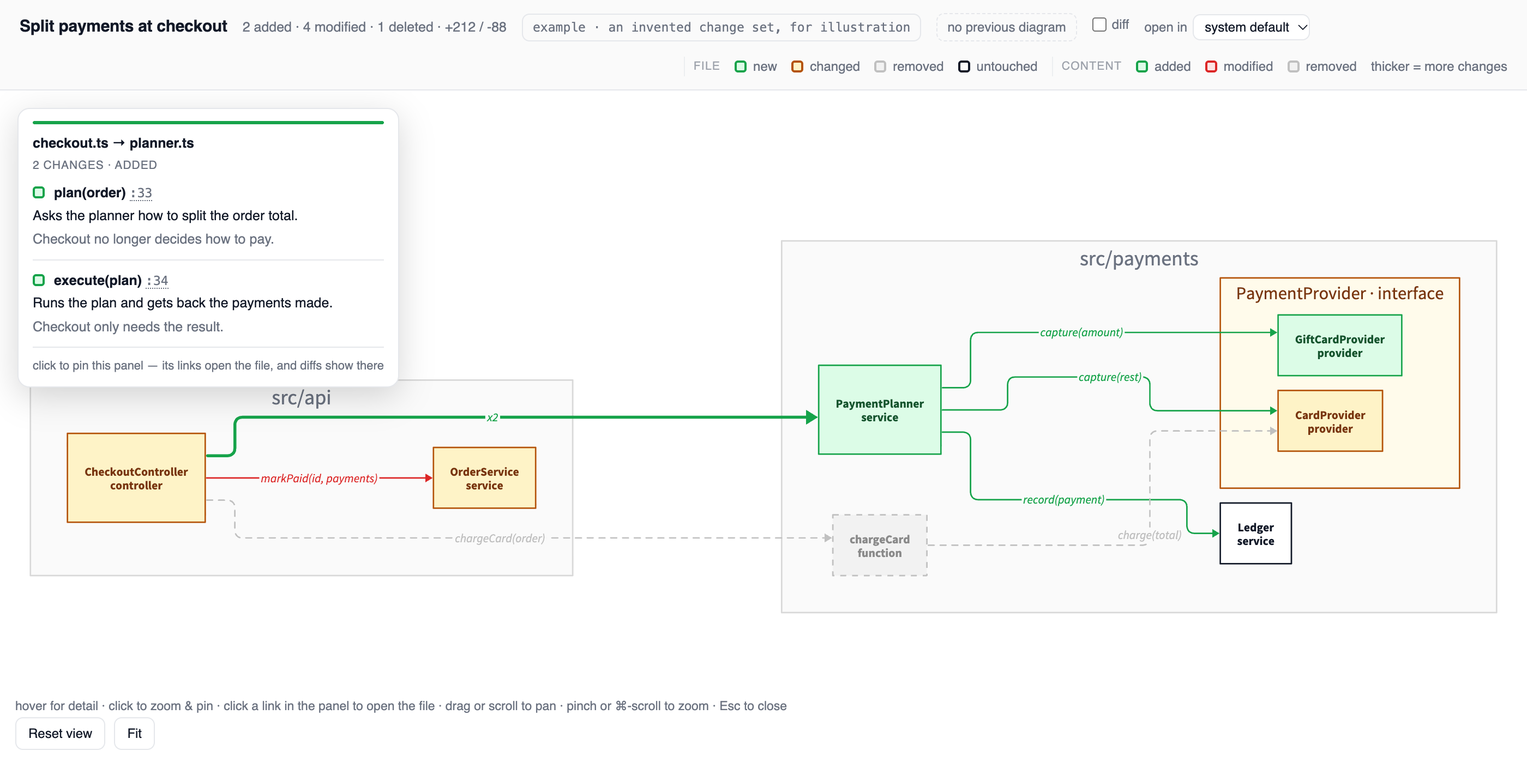
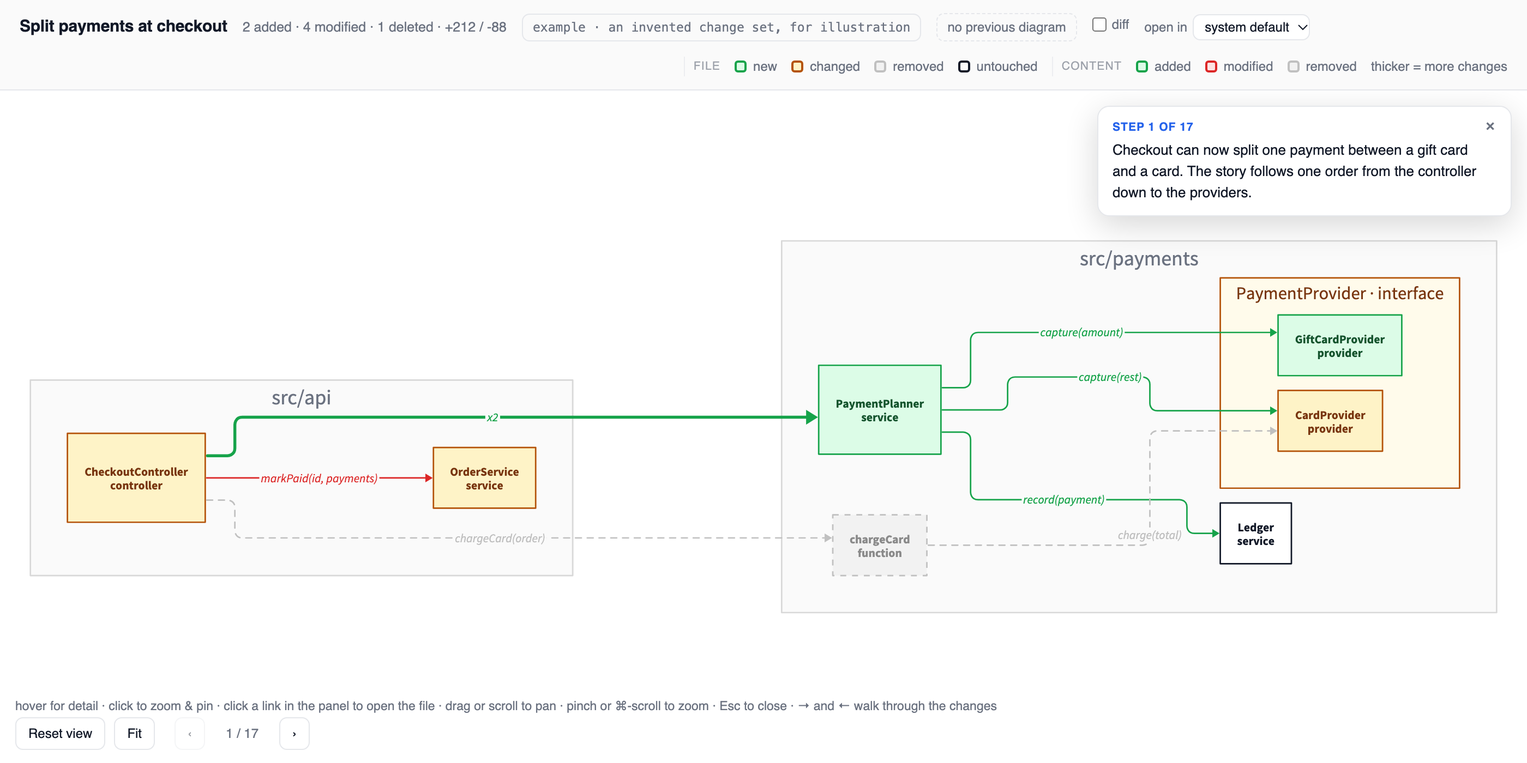
Show story mode in the example
The example page is now built with story mode. It has a tour of 17
steps that follows one order from the checkout controller to the
payment providers, and ends with the code that the planner replaced.
The screenshot shows the first step of the tour.

Claude-Session: https://claude.ai/code/session_01TgY3Y1R2iVzdEZJ4mQ3Ke6

Changed region(s): [[0.0, 0.1536, 0.2486, 0.5221], [0.7146, 0.1536, 0.9632, 0.3071], [0.5282, 0.9214, 0.6525, 0.9521]]

diff --git a/index.html b/index.html
@@ -75,6 +75,10 @@
   #pin .card, #pin.card{max-width:none}
   .card .pinhint{margin-top:9px;padding-top:8px;border-top:1px solid var(--line);
     font-size:11px;color:var(--muted)}
+  .card .step{margin-bottom:10px;padding:0 18px 9px 0;border-bottom:1px solid var(--line)}
+  .card .step:last-child{margin-bottom:0;padding-bottom:0;border-bottom:0}
+  .card .step .n{font-size:10.5px;font-weight:650;color:var(--link);text-transform:uppercase;letter-spacing:.05em}
+  .card .step .note{margin-top:3px;font-size:13px}
 
   #hover{position:absolute;pointer-events:none;opacity:0;transform:translateY(4px);
     transition:opacity .12s,transform .12s;z-index:5}
@@ -90,6 +94,11 @@
   button.b{font:inherit;font-size:12px;padding:5px 11px;border-radius:7px;cursor:pointer;
     border:1px solid var(--line);background:var(--card-bg);color:var(--fg)}
   button.b:hover{border-color:var(--muted)}
+  button.b:disabled{opacity:.4;cursor:default}
+  button.b:disabled:hover{border-color:var(--line)}
+  #tour{display:flex;align-items:center;gap:6px;margin-left:10px}
+  #tour[hidden]{display:none}
+  #tourpos{font-size:12px;color:var(--muted);min-width:56px;text-align:center;font-variant-numeric:tabular-nums}
   .hint{position:absolute;left:14px;bottom:44px;font-size:11.5px;color:var(--muted);z-index:4}
 </style>
 </head>
@@ -240,12 +249,18 @@
   <footer>
     <button class="b" id="reset">Reset view</button>
     <button class="b" id="fit">Fit</button>
+    <div id="tour" hidden>
+      <button class="b" id="prev" title="previous step (←)">‹</button>
+      <span id="tourpos"></span>
+      <button class="b" id="next" title="next step (→)">›</button>
+    </div>
   </footer>
-  <div class="hint">hover for detail · click to zoom &amp; pin · click a link in the panel to open the file · drag or scroll to pan · pinch or ⌘-scroll to zoom · Esc to close</div>
+  <div class="hint">hover for detail · click to zoom &amp; pin · click a link in the panel to open the file · drag or scroll to pan · pinch or ⌘-scroll to zoom · Esc to close<span id="tourhint" hidden> · → and ← walk through the changes</span></div>
 </div>
 
 <script>
-const DATA   = {"KGFwaS5uMCAtJmd0OyBwYXltZW50cy5uMilbMF0=": {"kind": "edge", "status": "added", "title": "checkout.ts  \u2192  planner.ts", "sub": "2 changes \u00b7 added", "path": "src/api/checkout.ts", "clickable": false, "changes": [{"call": "plan(order)", "line": 33, "path": "src/api/checkout.ts", "what": "Asks the planner how to split the order total.", "why": "Checkout no longer decides how to pay."}, {"call": "execute(plan)", "line": 34, "path": "src/api/checkout.ts", "what": "Runs the plan and gets back the payments made.", "why": "Checkout only needs the result."}]}, "KGFwaS5uMCAtJmd0OyBwYXltZW50cy5uNilbMF0=": {"kind": "edge", "status": "deleted", "title": "checkout.ts  \u2192  legacy-charge.ts", "sub": "1 change \u00b7 deleted", "path": "src/api/checkout.ts", "clickable": false, "changes": [{"call": "chargeCard(order)", "line": 33, "path": "src/api/checkout.ts", "what": "No longer charges the card directly.", "why": "Replaced by the planner."}]}, "YXBpLihuMCAtJmd0OyBuMSlbMF0=": {"kind": "edge", "status": "modified", "title": "checkout.ts  \u2192  orders.ts", "sub": "1 change \u00b7 modified", "path": "src/api/checkout.ts", "clickable": false, "changes": [{"call": "markPaid(id, payments)", "line": 36, "path": "src/api/checkout.ts", "what": "Passes the list of payments instead of one charge id.", "why": "Matches the new markPaid signature."}]}, "cGF5bWVudHMuKG4yIC0mZ3Q7IG4zLm41KVswXQ==": {"kind": "edge", "status": "added", "title": "planner.ts  \u2192  giftcard.ts", "sub": "1 change \u00b7 added", "path": "src/payments/planner.ts", "clickable": false, "changes": [{"call": "capture(amount)", "line": 24, "path": "src/payments/planner.ts", "what": "Takes the gift card part first.", "why": "Gift card balance is spent before the card."}]}, "cGF5bWVudHMuKG4yIC0mZ3Q7IG4zLm40KVswXQ==": {"kind": "edge", "status": "added", "title": "planner.ts  \u2192  card.ts", "sub": "1 change \u00b7 added", "path": "src/payments/planner.ts", "clickable": false, "changes": [{"call": "capture(rest)", "line": 24, "path": "src/payments/planner.ts", "what": "Puts what is left on the card.", "why": "The card covers the rest of the total."}]}, "cGF5bWVudHMuKG4yIC0mZ3Q7IG43KVswXQ==": {"kind": "edge", "status": "added", "title": "planner.ts  \u2192  ledger.ts", "sub": "1 change \u00b7 added", "path": "src/payments/planner.ts", "clickable": false, "changes": [{"call": "record(payment)", "line": 25, "path": "src/payments/planner.ts", "what": "Writes each captured payment to the ledger.", "why": "Finance reconciles each payment separately."}]}, "cGF5bWVudHMuKG42IC0mZ3Q7IG4zLm40KVswXQ==": {"kind": "edge", "status": "deleted", "title": "legacy-charge.ts  \u2192  card.ts", "sub": "1 change \u00b7 deleted", "path": "src/payments/legacy-charge.ts", "clickable": false, "changes": [{"call": "charge(total)", "path": "src/payments/legacy-charge.ts", "what": "The old one-shot card charge.", "why": "Removed with chargeCard."}]}, "YXBpLm4w": {"kind": "node", "status": "modified", "title": "src/api/checkout.ts", "sub": "controller \u00b7 modified", "path": "src/api/checkout.ts", "clickable": false, "changes": [{"line": 41, "status": "added", "what": "A declined payment now returns 402 with the step that failed.", "why": "With several payments per order, the client needs to know which one to retry.", "diff": "@@ -38,4 +38,9 @@ export class CheckoutController {\n   } catch (err) {\n-    return res.status(500).end();\n+    if (err instanceof PaymentDeclined) {\n+      return res.status(402).json({ step: err.step, reason: err.reason });\n+    }\n+    return res.status(500).end();\n   }"}]}, "YXBpLm4x": {"kind": "node", "status": "modified", "title": "src/api/orders.ts", "sub": "service \u00b7 modified", "path": "src/api/orders.ts", "clickable": false, "changes": [{"line": 27, "status": "modified", "what": "markPaid takes the list of payments instead of one card charge id.", "why": "An order can now be paid by a gift card and a card together.", "diff": "@@ -27,3 +27,3 @@ export class OrderService {\n-  markPaid(orderId: string, chargeId: string) {\n+  markPaid(orderId: string, payments: Payment[]) {\n     const order = this.repo.get(orderId);"}]}, "cGF5bWVudHMubjI=": {"kind": "node", "status": "added", "title": "src/payments/planner.ts", "sub": "service \u00b7 added", "path": "src/payments/planner.ts", "clickable": false, "changes": [{"line": 12, "what": "plan() spends gift card balance first, then puts the rest on the card.", "why": "Customers expect the gift card to be used before they are charged.", "diff": "@@ new file, lines 12-18 @@\n+  plan(order: Order): Plan {\n+    const gift = Math.min(order.giftCardBalance, order.total);\n+    return [\n+      gift > 0 && { provider: \"giftcard\", amount: gift },\n+      { provider: \"card\", amount: order.total - gift },\n+    ].filter(Boolean);\n+  }"}, {"line": 21, "what": "execute() captures each step in order and refunds earlier steps if one fails.", "why": "A half-paid order must never be left behind.", "diff": "@@ new file, lines 21-27 @@\n+  async execute(plan: Plan): Promise<Payment[]> {\n+    const done: Payment[] = [];\n+    for (const step of plan) {\n+      try { done.push(await this.providers[step.provider].capture(step.amount)); }\n+      catch (err) { await this.refundAll(done); throw new PaymentDeclined(step, err); }\n+    }\n+    return done;"}]}, "cGF5bWVudHMubjM=": {"kind": "node", "status": "modified", "title": "src/payments/provider.ts", "sub": "interface \u00b7 modified", "path": "src/payments/provider.ts", "clickable": false, "changes": [{"line": 4, "status": "modified", "what": "charge(total) becomes capture(amount).", "why": "A provider now pays for part of an order, not always the whole of it.", "diff": "@@ -3,3 +3,3 @@ export interface PaymentProvider {\n   readonly name: string;\n-  charge(total: Money): Promise<string>;\n+  capture(amount: Money): Promise<Payment>;"}]}, "cGF5bWVudHMubjMubjQ=": {"kind": "node", "status": "modified", "title": "src/payments/card.ts", "sub": "provider \u00b7 modified", "path": "src/payments/card.ts", "clickable": false, "changes": [{"line": 18, "status": "modified", "what": "Implements capture(amount) for a partial amount.", "why": "Follows the new PaymentProvider contract.", "diff": "@@ -18,4 +18,4 @@ export class CardProvider implements PaymentProvider {\n-  async charge(total: Money) {\n-    return (await this.gateway.charge(this.token, total)).id;\n+  async capture(amount: Money) {\n+    return toPayment(await this.gateway.charge(this.token, amount));"}]}, "cGF5bWVudHMubjMubjU=": {"kind": "node", "status": "added", "title": "src/payments/giftcard.ts", "sub": "provider \u00b7 added", "path": "src/payments/giftcard.ts", "clickable": false, "changes": [{"line": 9, "what": "Takes the amount off the gift card balance.", "why": "Gift cards are the new way to pay.", "diff": "@@ new file, lines 9-13 @@\n+  async capture(amount: Money) {\n+    const card = await this.cards.lock(this.code);\n+    if (card.balance < amount) throw new InsufficientBalance(card.balance);\n+    return toPayment(await this.cards.debit(card, amount));\n+  }"}]}, "cGF5bWVudHMubjY=": {"kind": "node", "status": "deleted", "title": "src/payments/legacy-charge.ts", "sub": "function \u00b7 deleted", "path": "src/payments/legacy-charge.ts", "clickable": false, "changes": [{"what": "Removed.", "why": "PaymentPlanner replaces it."}]}, "cGF5bWVudHMubjc=": {"kind": "node", "status": "unchanged", "title": "src/payments/ledger.ts", "sub": "service \u00b7 unchanged", "path": "src/payments/ledger.ts", "clickable": false, "changes": []}};
+const DATA   = {"KGFwaS5uMCAtJmd0OyBwYXltZW50cy5uMilbMF0=": {"kind": "edge", "status": "added", "title": "checkout.ts  \u2192  planner.ts", "sub": "2 changes \u00b7 added", "path": "src/api/checkout.ts", "clickable": false, "changes": [{"call": "plan(order)", "line": 33, "path": "src/api/checkout.ts", "what": "Asks the planner how to split the order total.", "why": "Checkout no longer decides how to pay."}, {"call": "execute(plan)", "line": 34, "path": "src/api/checkout.ts", "what": "Runs the plan and gets back the payments made.", "why": "Checkout only needs the result."}]}, "KGFwaS5uMCAtJmd0OyBwYXltZW50cy5uNilbMF0=": {"kind": "edge", "status": "deleted", "title": "checkout.ts  \u2192  legacy-charge.ts", "sub": "1 change \u00b7 removed", "path": "src/api/checkout.ts", "clickable": false, "changes": [{"call": "chargeCard(order)", "line": 33, "path": "src/api/checkout.ts", "what": "No longer charges the card directly.", "why": "Replaced by the planner."}]}, "YXBpLihuMCAtJmd0OyBuMSlbMF0=": {"kind": "edge", "status": "modified", "title": "checkout.ts  \u2192  orders.ts", "sub": "1 change \u00b7 modified", "path": "src/api/checkout.ts", "clickable": false, "changes": [{"call": "markPaid(id, payments)", "line": 36, "path": "src/api/checkout.ts", "what": "Passes the list of payments instead of one charge id.", "why": "Matches the new markPaid signature."}]}, "cGF5bWVudHMuKG4yIC0mZ3Q7IG4zLm41KVswXQ==": {"kind": "edge", "status": "added", "title": "planner.ts  \u2192  giftcard.ts", "sub": "1 change \u00b7 added", "path": "src/payments/planner.ts", "clickable": false, "changes": [{"call": "capture(amount)", "line": 24, "path": "src/payments/planner.ts", "what": "Takes the gift card part first.", "why": "Gift card balance is spent before the card."}]}, "cGF5bWVudHMuKG4yIC0mZ3Q7IG4zLm40KVswXQ==": {"kind": "edge", "status": "added", "title": "planner.ts  \u2192  card.ts", "sub": "1 change \u00b7 added", "path": "src/payments/planner.ts", "clickable": false, "changes": [{"call": "capture(rest)", "line": 24, "path": "src/payments/planner.ts", "what": "Puts what is left on the card.", "why": "The card covers the rest of the total."}]}, "cGF5bWVudHMuKG4yIC0mZ3Q7IG43KVswXQ==": {"kind": "edge", "status": "added", "title": "planner.ts  \u2192  ledger.ts", "sub": "1 change \u00b7 added", "path": "src/payments/planner.ts", "clickable": false, "changes": [{"call": "record(payment)", "line": 25, "path": "src/payments/planner.ts", "what": "Writes each captured payment to the ledger.", "why": "Finance reconciles each payment separately."}]}, "cGF5bWVudHMuKG42IC0mZ3Q7IG4zLm40KVswXQ==": {"kind": "edge", "status": "deleted", "title": "legacy-charge.ts  \u2192  card.ts", "sub": "1 change \u00b7 removed", "path": "src/payments/legacy-charge.ts", "clickable": false, "changes": [{"call": "charge(total)", "path": "src/payments/legacy-charge.ts", "what": "The old one-shot card charge.", "why": "Removed with chargeCard."}]}, "YXBpLm4w": {"kind": "node", "status": "modified", "title": "src/api/checkout.ts", "sub": "controller \u00b7 changed", "path": "src/api/checkout.ts", "clickable": false, "changes": [{"line": 41, "status": "added", "what": "A declined payment now returns 402 with the step that failed.", "why": "With several payments per order, the client needs to know which one to retry.", "diff": "@@ -38,4 +38,9 @@ export class CheckoutController {\n   } catch (err) {\n-    return res.status(500).end();\n+    if (err instanceof PaymentDeclined) {\n+      return res.status(402).json({ step: err.step, reason: err.reason });\n+    }\n+    return res.status(500).end();\n   }"}]}, "YXBpLm4x": {"kind": "node", "status": "modified", "title": "src/api/orders.ts", "sub": "service \u00b7 changed", "path": "src/api/orders.ts", "clickable": false, "changes": [{"line": 27, "status": "modified", "what": "markPaid takes the list of payments instead of one card charge id.", "why": "An order can now be paid by a gift card and a card together.", "diff": "@@ -27,3 +27,3 @@ export class OrderService {\n-  markPaid(orderId: string, chargeId: string) {\n+  markPaid(orderId: string, payments: Payment[]) {\n     const order = this.repo.get(orderId);"}]}, "cGF5bWVudHMubjI=": {"kind": "node", "status": "added", "title": "src/payments/planner.ts", "sub": "service \u00b7 new", "path": "src/payments/planner.ts", "clickable": false, "changes": [{"line": 12, "what": "plan() spends gift card balance first, then puts the rest on the card.", "why": "Customers expect the gift card to be used before they are charged.", "diff": "@@ new file, lines 12-18 @@\n+  plan(order: Order): Plan {\n+    const gift = Math.min(order.giftCardBalance, order.total);\n+    return [\n+      gift > 0 && { provider: \"giftcard\", amount: gift },\n+      { provider: \"card\", amount: order.total - gift },\n+    ].filter(Boolean);\n+  }"}, {"line": 21, "what": "execute() captures each step in order and refunds earlier steps if one fails.", "why": "A half-paid order must never be left behind.", "diff": "@@ new file, lines 21-27 @@\n+  async execute(plan: Plan): Promise<Payment[]> {\n+    const done: Payment[] = [];\n+    for (const step of plan) {\n+      try { done.push(await this.providers[step.provider].capture(step.amount)); }\n+      catch (err) { await this.refundAll(done); throw new PaymentDeclined(step, err); }\n+    }\n+    return done;"}]}, "cGF5bWVudHMubjM=": {"kind": "node", "status": "modified", "title": "src/payments/provider.ts", "sub": "interface \u00b7 changed", "path": "src/payments/provider.ts", "clickable": false, "changes": [{"line": 4, "status": "modified", "what": "charge(total) becomes capture(amount).", "why": "A provider now pays for part of an order, not always the whole of it.", "diff": "@@ -3,3 +3,3 @@ export interface PaymentProvider {\n   readonly name: string;\n-  charge(total: Money): Promise<string>;\n+  capture(amount: Money): Promise<Payment>;"}]}, "cGF5bWVudHMubjMubjQ=": {"kind": "node", "status": "modified", "title": "src/payments/card.ts", "sub": "provider \u00b7 changed", "path": "src/payments/card.ts", "clickable": false, "changes": [{"line": 18, "status": "modified", "what": "Implements capture(amount) for a partial amount.", "why": "Follows the new PaymentProvider contract.", "diff": "@@ -18,4 +18,4 @@ export class CardProvider implements PaymentProvider {\n-  async charge(total: Money) {\n-    return (await this.gateway.charge(this.token, total)).id;\n+  async capture(amount: Money) {\n+    return toPayment(await this.gateway.charge(this.token, amount));"}]}, "cGF5bWVudHMubjMubjU=": {"kind": "node", "status": "added", "title": "src/payments/giftcard.ts", "sub": "provider \u00b7 new", "path": "src/payments/giftcard.ts", "clickable": false, "changes": [{"line": 9, "what": "Takes the amount off the gift card balance.", "why": "Gift cards are the new way to pay.", "diff": "@@ new file, lines 9-13 @@\n+  async capture(amount: Money) {\n+    const card = await this.cards.lock(this.code);\n+    if (card.balance < amount) throw new InsufficientBalance(card.balance);\n+    return toPayment(await this.cards.debit(card, amount));\n+  }"}]}, "cGF5bWVudHMubjY=": {"kind": "node", "status": "deleted", "title": "src/payments/legacy-charge.ts", "sub": "function \u00b7 removed", "path": "src/payments/legacy-charge.ts", "clickable": false, "changes": [{"what": "Removed.", "why": "PaymentPlanner replaces it."}]}, "cGF5bWVudHMubjc=": {"kind": "node", "status": "unchanged", "title": "src/payments/ledger.ts", "sub": "service \u00b7 untouched", "path": "src/payments/ledger.ts", "clickable": false, "changes": []}};
+const TOUR   = [{"key": null, "show": null, "note": "Checkout can now split one payment between a gift card and a card. The story follows one order from the controller down to the providers."}, {"key": "cGF5bWVudHMubjM=", "show": null, "note": "Start with the contract. Every provider and the new planner are built on this rename."}, {"key": "KGFwaS5uMCAtJmd0OyBwYXltZW50cy5uMilbMF0=", "show": null, "note": "This is where an order enters the new code: checkout hands the whole decision to the planner."}, {"key": "cGF5bWVudHMubjI=", "show": [0], "note": "First half of the planner: how one total becomes a list of payments."}, {"key": "cGF5bWVudHMubjI=", "show": [1], "note": "Second half: how the plan runs, and what happens when one step fails."}, {"key": "cGF5bWVudHMuKG4yIC0mZ3Q7IG4zLm41KVswXQ==", "show": null, "note": "The gift card is charged first."}, {"key": "cGF5bWVudHMubjMubjU=", "show": null, "note": "The new provider that receives that call."}, {"key": "cGF5bWVudHMuKG4yIC0mZ3Q7IG4zLm40KVswXQ==", "show": null, "note": "Then the card covers the rest."}, {"key": "cGF5bWVudHMubjMubjQ=", "show": null, "note": "The existing card provider, changed to accept a part of the total."}, {"key": "cGF5bWVudHMuKG4yIC0mZ3Q7IG43KVswXQ==", "show": null, "note": "Each captured payment is recorded. The ledger itself did not change."}, {"key": "YXBpLm4w", "show": null, "note": "Back in checkout: a failed step now reaches the client."}, {"key": "YXBpLihuMCAtJmd0OyBuMSlbMF0=", "show": null, "note": "Checkout closes the order with the payments the planner returned."}, {"key": "YXBpLm4x", "show": null, "note": "The signature on the other side of that call."}, {"key": null, "show": null, "note": "Last, what the planner replaced."}, {"key": "KGFwaS5uMCAtJmd0OyBwYXltZW50cy5uNilbMF0=", "show": null, "note": "The direct card charge is gone from checkout."}, {"key": "cGF5bWVudHMubjY=", "show": null, "note": "So the old function goes too."}, {"key": "cGF5bWVudHMuKG42IC0mZ3Q7IG4zLm40KVswXQ==", "show": null, "note": "And with it the last caller of the old charge(total)."}];
 const ROOT   = "";
 let EDITOR = "system" || "system";
 try { EDITOR = localStorage.getItem("superreview.editor") || EDITOR; } catch (e) {}
@@ -388,12 +403,23 @@ function centreOn(bb) {
 const frameBox = bb => userZoomed ? centreOn(bb) : zoomToBBox(bb);
 
 /* ---------- card rendering ---------- */
-function renderCard(d, live) {
+// The top of a tour step's card: where the reader is, and the author's note on
+// why this step comes now.
+const stepHead = (step, more = "") =>
+  `<div class="step"><div class="n">step ${step.n} of ${TOUR.length}${more}</div>` +
+  (step.note ? `<div class="note">${esc(step.note)}</div>` : "") + `</div>`;
+
+function renderCard(d, live, step) {
   // `live` = the pinned panel, which stays put and can hold real links; the
   // hover card follows the cursor, so its links would be unreachable.
-  const url0 = live && d.clickable ? fileURL(d.path, (d.changes[0] || {}).line) : null;
+  // `step` = a tour step, which leads with its note and shows only its changes.
+  const all = d.changes || [];
+  const list = step && step.show ? step.show.map(i => all[i]) : all;
+  const more = list.length < all.length
+    ? ` · ${list.length} of ${all.length} changes ${d.kind === "node" ? "in this file" : "on this arrow"}` : "";
+  const url0 = live && d.clickable ? fileURL(d.path, (list[0] || {}).line) : null;
   const head = url0 ? `<a class="t" href="${url0}">${esc(d.title)}</a>` : `<div class="t">${esc(d.title)}</div>`;
-  const blocks = (d.changes || []).map(c => {
+  const blocks = list.map(c => {
     const u = live && d.clickable ? fileURL(c.path || d.path, c.line) : null;
     const st = c.status || d.status;
     const head2 = [swatch(st),
@@ -406,7 +432,7 @@ function renderCard(d, live) {
       ${live && SHOWDIFF ? hunk(c.diff) : ""}</div>`;
   }).join("");
   const bar = (d.kind === "node" ? FILE : CHANGE)[d.status] || "var(--muted)";
-  return `<div class="bar" style="background:${bar}"></div>
+  return `${step ? stepHead(step, more) : ""}<div class="bar" style="background:${bar}"></div>
           ${head}<div class="s">${esc(d.sub || "")}</div>${blocks}
           ${live ? "" : '<div class="pinhint">click to pin this panel — its links open the file, and diffs show there</div>'}`;
 }
@@ -414,7 +440,7 @@ const esc = s => String(s == null ? "" : s)
   .replace(/&/g,"&amp;").replace(/</g,"&lt;").replace(/>/g,"&gt;");
 
 /* ---------- bind every d2 group whose base64 class is in DATA ---------- */
-let pinned = null, pinnedBox = null;
+let pinned = null, pinnedBox = null, pinnedStep = null;
 const targets = [];
 svg.querySelectorAll("g[class]").forEach(g => {
   for (const c of g.getAttribute("class").split(/\s+/)) {
@@ -426,6 +452,20 @@ function moveHover(ev) {
   const r = stage.getBoundingClientRect();
   hover.style.left = Math.min(ev.clientX - r.left + 16, r.width  - hover.offsetWidth  - 10) + "px";
   hover.style.top  = Math.min(ev.clientY - r.top  + 16, r.height - hover.offsetHeight - 10) + "px";
+}
+
+// Pin an element's card, dim everything else and frame it. A click and a tour
+// step both come here; only the step passes itself, to lead the card.
+function pinTarget(g, step = null) {
+  const d = DATA[g.dataset.key];
+  targets.forEach(o => o.classList.toggle("dimmed", o !== g));
+  pinned = d; pinnedStep = step; pinnedBox = boxOf(g);
+  pin.classList.toggle("wide", SHOWDIFF);
+  pin.querySelector(".body").innerHTML = renderCard(d, true, step);  // pinned copy has live links
+  pin.scrollTop = 0;
+  pin.classList.add("on");
+  hover.classList.remove("on");
+  frameBox(pinnedBox);                               // after the panel is up, so its width is known
 }
 
 targets.forEach(g => {
@@ -440,13 +480,7 @@ targets.forEach(g => {
       const u = fileURL(d.path, (d.changes[0] || {}).line);
       if (u) { location.href = u; return; }
     }
-    targets.forEach(o => o.classList.toggle("dimmed", o !== g));
-    pinned = d; pinnedBox = boxOf(g);
-    pin.classList.toggle("wide", SHOWDIFF);
-    pin.querySelector(".body").innerHTML = renderCard(d, true);  // pinned copy has live links
-    pin.classList.add("on");
-    hover.classList.remove("on");
-    frameBox(pinnedBox);                             // after the panel is up, so its width is known
+    pinTarget(g);
   });
 });
 
@@ -506,7 +540,7 @@ stage.addEventListener("gesturechange", e => {
 // closing the panel (empty-space click, ×, Esc) leaves the view where it is.
 function unpin() {
   targets.forEach(o => o.classList.remove("dimmed"));
-  pinned = null;
+  pinned = null; pinnedStep = null;
   pin.classList.remove("on"); hover.classList.remove("on");
   if (!userZoomed) animateTo(HOME.slice());
 }
@@ -531,9 +565,9 @@ diffBox.addEventListener("click", e => e.stopPropagation());
 diffBox.addEventListener("change", () => {
   SHOWDIFF = diffBox.checked;
   try { localStorage.setItem("superreview.diff", SHOWDIFF ? "1" : "0"); } catch (e) {}
-  pin.classList.toggle("wide", SHOWDIFF);
+  pin.classList.toggle("wide", SHOWDIFF && !!pinned);  // a note-only step has no diff to widen for
   if (pinned) {
-    pin.querySelector(".body").innerHTML = renderCard(pinned, true);
+    pin.querySelector(".body").innerHTML = renderCard(pinned, true, pinnedStep);
     frameBox(pinnedBox);                             // the panel changed width
   }
 });
@@ -544,10 +578,53 @@ picker.addEventListener("click", e => e.stopPropagation());
 picker.addEventListener("change", () => {
   EDITOR = picker.value;
   try { localStorage.setItem("superreview.editor", EDITOR); } catch (e) {}
-  if (pinned) pin.querySelector(".body").innerHTML = renderCard(pinned, true);  // relink
+  if (pinned) pin.querySelector(".body").innerHTML = renderCard(pinned, true, pinnedStep);  // relink
 });
 
-addEventListener("keydown", e => { if (e.key === "Escape") unpin(); });
+/* ---------- tour: the changes in the order the author chose to tell them ---------- */
+// Each step pins one box or arrow, exactly as a click does. A step with no
+// element is a note over the whole diagram: an opening, or a change of subject.
+// Clicking elsewhere or Esc leaves the position alone, so → carries on from it.
+let at = 0;                                          // 0 = not started, else 1..TOUR.length
+const tourPos = document.getElementById("tourpos");
+const prevBtn = document.getElementById("prev"), nextBtn = document.getElementById("next");
+function tourUI() {
+  tourPos.textContent = at ? `${at} / ${TOUR.length}` : `tour · ${TOUR.length}`;
+  prevBtn.disabled = at <= 1;
+  nextBtn.disabled = at >= TOUR.length;
+}
+function go(i) {
+  at = Math.max(1, Math.min(TOUR.length, i));
+  const step = Object.assign({n: at}, TOUR[at - 1]);
+  const g = step.key && targets.find(t => t.dataset.key === step.key);
+  if (g) pinTarget(g, step);
+  else {
+    targets.forEach(o => o.classList.remove("dimmed"));
+    pinned = null; pinnedStep = step;
+    pin.classList.remove("wide");
+    pin.querySelector(".body").innerHTML = stepHead(step);
+    pin.scrollTop = 0;
+    pin.classList.add("on"); hover.classList.remove("on");
+    if (!userZoomed) animateTo(HOME.slice());
+  }
+  tourUI();
+}
+if (TOUR.length) {
+  document.getElementById("tour").hidden = false;
+  document.getElementById("tourhint").hidden = false;
+  tourUI();
+  prevBtn.addEventListener("click", e => { e.stopPropagation(); go(at - 1); });
+  nextBtn.addEventListener("click", e => { e.stopPropagation(); go(at + 1); });
+}
+
+addEventListener("keydown", e => {
+  if (e.key === "Escape") unpin();
+  // Arrow keys belong to a focused text field or select; ⌘/Alt-arrows to the browser.
+  if (!TOUR.length || e.metaKey || e.ctrlKey || e.altKey
+      || (e.target.closest && e.target.closest("select, textarea, input:not([type=checkbox])"))) return;
+  if (e.key === "ArrowRight" && at < TOUR.length) { e.preventDefault(); go(at + 1); }
+  if (e.key === "ArrowLeft"  && at > 1)           { e.preventDefault(); go(at - 1); }
+});
 </script>
 </body>
 </html>
